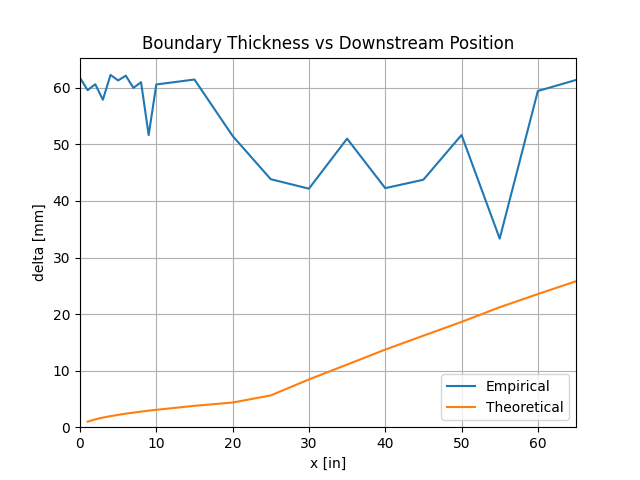
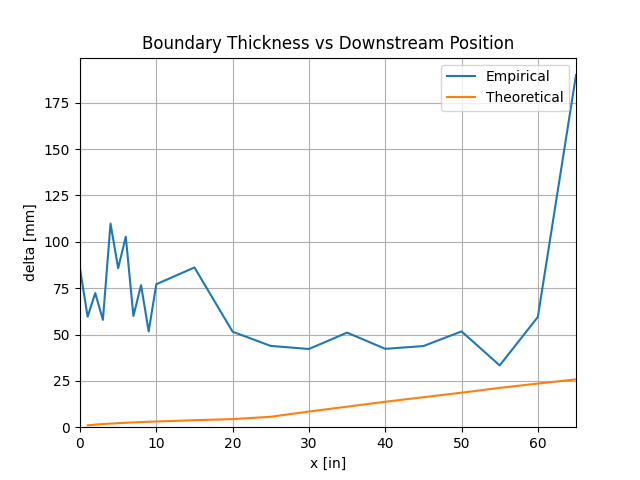
new week

diff --git a/aere-344/labs/8/main.py b/aere-344/labs/8/main.py
@@ -1,7 +1,6 @@
 import csv
 import numpy as np
 import matplotlib.pyplot as plt
-from scipy.optimize import curve_fit
 
 in_to_m = 1 / 39.37
 
@@ -17,18 +16,12 @@ delta_tr = 5 * x_tr / np.sqrt(Re_tr)
 
 is_ = list(range(0, 39))
 
-# broken_indices = [2, 11, 17, 22]
-broken_indices = []
-broken_indices = [1, 20, 21]
+broken_indices = [1, 15, 20, 21]
 broken_indices = np.array(broken_indices)
 
 xs_in = list(range(10)) + list(range(10, 65 + 5, 5))
-xs = [x_in * in_to_m for x_in in xs_in]
-ys = [Delta_y * i for i in is_]
-
-xs = np.array(xs)
-ys = np.array(ys)
-
+xs = np.array([x_in * in_to_m for x_in in xs_in])
+ys = np.array([Delta_y * i for i in is_])
 ys_mm = ys * 1000
 
 
@@ -41,21 +34,21 @@ deltas_theoretical = []
 thetas = []
 velocity_profiles = []
 pressure_profiles = []
+dynamic_pressure_profiles = []
 
 
 def plt_figure_1(name):
     plt.grid()
     plt.legend()
     plt.title(f"Velocity Profile vs Downstream Position ({name})")
-    plt.ylabel("y [mm]")
+    plt.ylabel("y / delta")
     plt.xlabel("u / u_inf")
     plt.xlim(left=0.75, right=1)
-    plt.ylim(bottom=0, top=1.75)
+    plt.ylim(bottom=0, top=2)
 
 
 for x_in in xs_in:
     path = f"data/{x_in}in.csv"
-    profile_range = x_in * in_to_m
     x = x_in * in_to_m
 
     with open(path) as file:
@@ -77,7 +70,6 @@ for x_in in xs_in:
 
         for broken in broken_indices:
             distance = 1 if broken < 18 else 2
-
             mean_sample[broken] = (
                 mean_sample[broken - distance] + mean_sample[broken + distance]
             ) / 2
@@ -90,14 +82,11 @@ for x_in in xs_in:
         q = np.maximum(0, p0 - p_inf)
 
         pressure_profiles.append([p0[0]] + list(p0))
+        dynamic_pressure_profiles.append([0] + list(q))
 
         u_inf = np.sqrt((2 / rho) * q_inf)
         u = np.sqrt((2 / rho) * q)
-        u = [0] + list(u)
-
-        # plt.clf()
-        # plt.plot(is_, list(u))
-        # plt.savefig(f"out/{x_in}in.png")
+        u = np.array([0] + list(u))
 
         velocity_profiles.append(u)
 
@@ -109,6 +98,7 @@ for x_in in xs_in:
         y2 = ys[idx]
 
         Re_x = u_inf * x / nu
+
         delta = y1 + (0.99 * u_inf - u1) * (y2 - y1) / (u2 - u1)
 
         if x < x_tr:
@@ -121,6 +111,7 @@ for x_in in xs_in:
         deltas.append(delta)
         deltas_theoretical.append(delta_theoretical)
 
+        # Plot normalized profile
         plt.plot(u / u_inf, ys / delta, label=f"x = {x_in}in")
 
         theta = np.sum((u / u_inf) * (1 - u / u_inf) * Delta_y)
@@ -135,11 +126,16 @@ for x_in in xs_in:
 
 plt_figure_1("Back")
 plt.savefig(f"out/velocity_profiles_back.png")
-
 plt.clf()
 
-deltas_mm = np.array(deltas) * 1000
-deltas_theoretical_mm = np.array(deltas_theoretical) * 1000
+
+# Boundary thickness plot
+
+deltas = np.array(deltas)
+deltas_theoretical = np.array(deltas_theoretical)
+
+deltas_mm = deltas * 1000
+deltas_theoretical_mm = deltas_theoretical * 1000
 
 plt.plot(xs_in, deltas_mm, label="Empirical")
 plt.plot(xs_in, deltas_theoretical_mm, label="Theoretical")
@@ -154,6 +150,9 @@ plt.savefig(f"out/boundary_thickness.png")
 
 plt.clf()
 
+
+# Momentum thickness
+
 plt.plot(xs_in, thetas)
 plt.title("Momentum Thickness vs Downstream Position")
 plt.xlabel("x [in]")
@@ -163,35 +162,52 @@ plt.xlim(left=0, right=xs_in[-1])
 plt.grid()
 plt.savefig(f"out/momentum_thickness.png")
 
+# 3D Pressure plot
+
 fig = plt.figure()
 ax = fig.add_subplot(projection="3d")
-
-profile_range, y = np.meshgrid(xs_in, ys_mm)
+profile_range, y = np.meshgrid(xs_in, ys)
+y_normalized = ys[:, None] / deltas[None, :]
 z = np.array(pressure_profiles).T
+surf = ax.plot_surface(profile_range, y_normalized, z, cmap="viridis")
 
-# 3D surface plot
-surf = ax.plot_surface(profile_range, y, z, cmap="viridis")
-
-# Colorbar
 fig.colorbar(surf, ax=ax, label="p0 [Pa]")
-
-# Labels
 ax.set_xlabel("x [in]")
-ax.set_ylabel("y [mm]")
+ax.set_ylabel("y / delta")
 ax.set_zlabel("p0 [Pa]")
-
 ax.set_title("Pressure Profile vs Downstream Position (3D)")
 
-plt.savefig("out/dynamic_pressure_profile_3d.png")
 
+plt.savefig("out/pressure_pressure_profile_3d.png")
 plt.clf()
+
+# Dynamic Pressure plot
+
+fig = plt.figure()
+ax = fig.add_subplot(projection="3d")
+profile_range, y = np.meshgrid(xs_in, ys)
+y_normalized = ys[:, None] / deltas[None, :]
+z = np.array(dynamic_pressure_profiles).T
+surf = ax.plot_surface(profile_range, y_normalized, z, cmap="viridis")
+
+fig.colorbar(surf, ax=ax, label="p0 [Pa]")
+ax.set_xlabel("x [in]")
+ax.set_ylabel("y / delta")
+ax.set_zlabel("p0 [Pa]")
+ax.set_title("Dynamic Profile vs Downstream Position (3D)")
+
+plt.savefig("out/dynamic_pressure_profile_3d.png")
+plt.clf()
+
+# Velocity contour plots
 
 z = np.array(velocity_profiles).T
 
-plt.contourf(profile_range, y, z)
+plt.contourf(profile_range, y_normalized, z)
 plt.colorbar(label="u [m/s]")
 plt.xlabel("x [in]")
-plt.ylabel("y [mm]")
+plt.ylabel("y / delta")
+
 
 plt.title("Velocity Profile vs Downstream Position (Linear)")
 plt.savefig("out/velocity_profile_linear.png")
@@ -205,6 +221,7 @@ plt.clf()
 
 d_theta = np.diff(thetas)
 d_x = np.diff(xs)
+
 C_f = 2 * d_theta / d_x
 
 Re_x = u_inf * xs / nu
@@ -221,6 +238,7 @@ plt.legend()
 plt.grid()
 plt.savefig(f"out/locale_shear_stress.png")
 
+# Drag coefficient
 L = 65 * in_to_m
 C_D = 2 * thetas[-1] / L
 C_D_theoretical = 0.075 / (Re_x[-1] ** 0.2)
